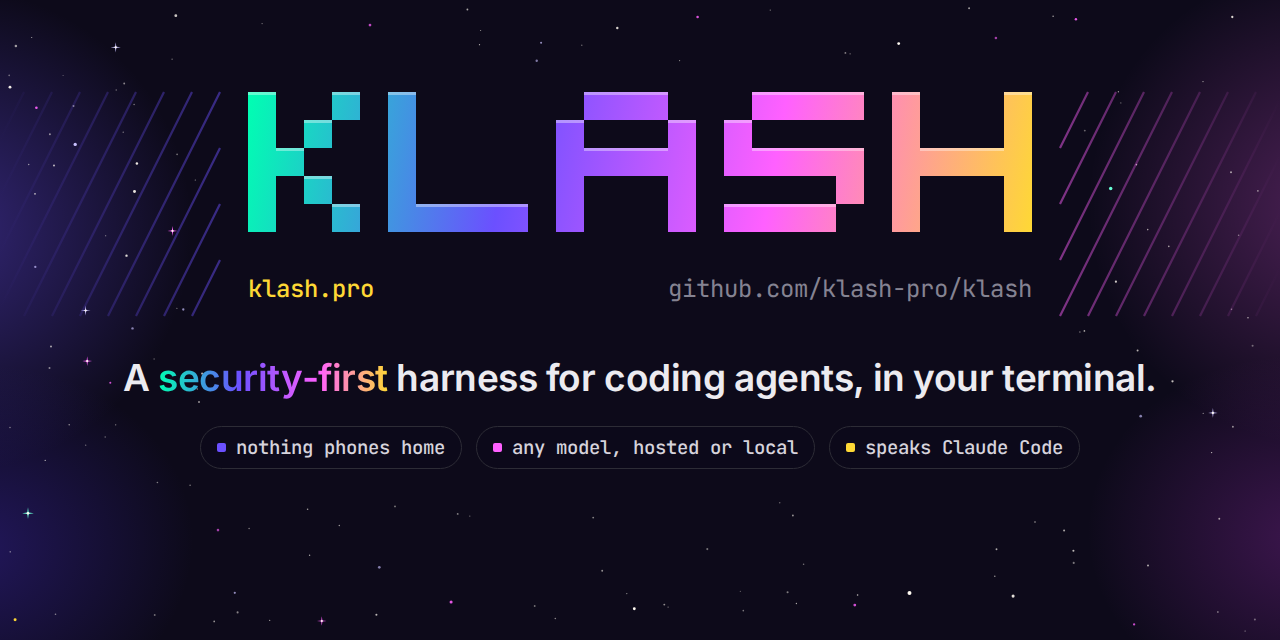
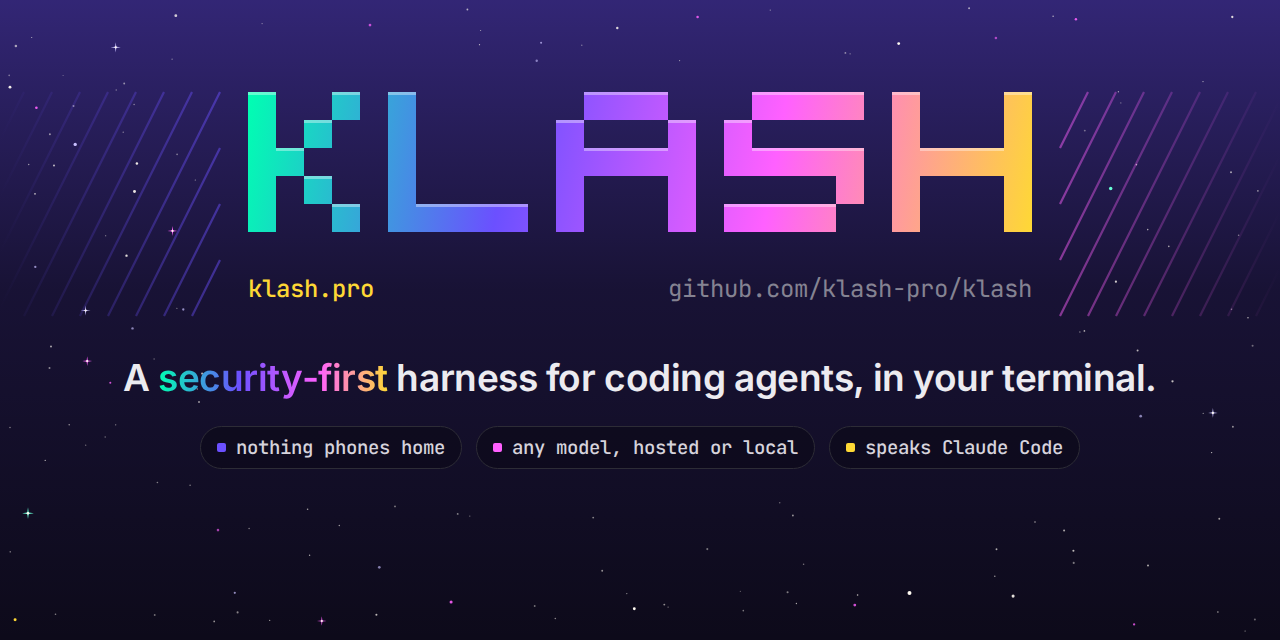
docs: the sky is one fade, a purple haze at the top
The clouds round the edges read worse than the flat sky they replaced.
Each picture's sky is now a single top-to-bottom fade instead: Crush's
purple at .40 at the top edge, .12 by the middle and nothing at the
bottom, over the same dark night, with the same crisp stars. The
clouds, their fitting and the two cloud tables are gone.

og.png and avatar.png are fresh screenshots of the new og.html and
avatar.svg.

diff --git a/docs/brand/og.html b/docs/brand/og.html
@@ -16,16 +16,11 @@ html,body{width:1280px;height:640px;overflow:hidden;background:#07060D}
 </style></head><body>
 <div class="bg"><svg xmlns="http://www.w3.org/2000/svg" viewBox="0 0 1280 640" width="1280" height="640" role="img" aria-label="Klash"><title>Klash</title>
 <defs>
-
-<radialGradient id="neb1"><stop offset="0" stop-color="#6B50FF" stop-opacity=".40"/><stop offset="1" stop-color="#6B50FF" stop-opacity="0"/></radialGradient>
-<radialGradient id="neb2"><stop offset="0" stop-color="#FF60FF" stop-opacity=".26"/><stop offset="1" stop-color="#FF60FF" stop-opacity="0"/></radialGradient>
-<radialGradient id="neb3"><stop offset="0" stop-color="#C337E0" stop-opacity=".26"/><stop offset="1" stop-color="#C337E0" stop-opacity="0"/></radialGradient>
-<radialGradient id="neb4"><stop offset="0" stop-color="#4A30D9" stop-opacity=".34"/><stop offset="1" stop-color="#4A30D9" stop-opacity="0"/></radialGradient>
-
+<linearGradient id="sky" x1="0" y1="0" x2="0" y2="1"><stop offset="0" stop-color="#6B50FF" stop-opacity=".40"/><stop offset=".45" stop-color="#6B50FF" stop-opacity=".12"/><stop offset="1" stop-color="#6B50FF" stop-opacity="0"/></linearGradient>
 <linearGradient id="word" gradientUnits="userSpaceOnUse" x1="248" y1="92" x2="1032" y2="232"><stop offset="0" stop-color="#00FFB2"/><stop offset="0.333" stop-color="#6B50FF"/><stop offset="0.667" stop-color="#FF60FF"/><stop offset="1" stop-color="#FED835"/></linearGradient>
 <linearGradient id="field" gradientUnits="userSpaceOnUse" x1="0" y1="0" x2="1280" y2="0"><stop offset="0" stop-color="#6B50FF" stop-opacity="0"/><stop offset=".2" stop-color="#6B50FF" stop-opacity=".55"/><stop offset=".8" stop-color="#FF60FF" stop-opacity=".55"/><stop offset="1" stop-color="#FF60FF" stop-opacity="0"/></linearGradient>
 </defs>
-<rect width="1280" height="640" fill="#0D0A1A"/><ellipse cx="-51" cy="230" rx="243" ry="243" fill="url(#neb1)" transform="rotate(10 -51 230)"/><ellipse cx="1331" cy="205" rx="243" ry="243" fill="url(#neb2)" transform="rotate(-10 1331 205)"/><ellipse cx="-26" cy="550" rx="220" ry="184" fill="url(#neb4)" transform="rotate(-8 -26 550)"/><ellipse cx="1306" cy="538" rx="219" ry="182" fill="url(#neb3)" transform="rotate(6 1306 538)"/><circle cx="1013.1" cy="596.1" r="1.55" fill="#FFFAF1" opacity="0.89"/><circle cx="73.5" cy="105.9" r="0.98" fill="#FFFAF1" opacity="0.50"/><circle cx="136.9" cy="163.6" r="1.24" fill="#FFFAF1" opacity="0.92"/><circle cx="10.2" cy="551.8" r="0.66" fill="#FFFAF1" opacity="0.74"/><circle cx="1110.7" cy="188.5" r="1.72" fill="#68FFD6" opacity="1.00"/><circle cx="237.6" cy="612.4" r="1.03" fill="#FFFAF1" opacity="0.50"/><circle cx="35.3" cy="266.9" r="1.16" fill="#C9C1FF" opacity="0.71"/><circle cx="770.3" cy="10.1" r="0.72" fill="#FFFAF1" opacity="0.47"/><circle cx="898.7" cy="43.6" r="1.41" fill="#FFFAF1" opacity="1.00"/><circle cx="1075.9" cy="19.3" r="1.22" fill="#FF60FF" opacity="0.89"/><circle cx="796.4" cy="603.5" r="0.67" fill="#FFFAF1" opacity="0.68"/><circle cx="1136.4" cy="164.6" r="0.84" fill="#FFFAF1" opacity="0.66"/><circle cx="555.3" cy="618.5" r="0.81" fill="#FFFAF1" opacity="0.50"/><circle cx="195.3" cy="180.0" r="0.60" fill="#FFFAF1" opacity="0.62"/><circle cx="395.0" cy="506.4" r="0.91" fill="#FFFAF1" opacity="0.47"/><circle cx="110.3" cy="382.8" r="1.02" fill="#FF60FF" opacity="0.81"/><circle cx="541.1" cy="42.8" r="1.02" fill="#C9C1FF" opacity="0.72"/><circle cx="269.7" cy="620.3" r="0.62" fill="#FFFAF1" opacity="0.71"/><circle cx="479.5" cy="44.7" r="0.62" fill="#FFFAF1" opacity="0.72"/><circle cx="668.1" cy="607.1" r="0.71" fill="#FFFAF1" opacity="0.46"/><circle cx="602.2" cy="570.8" r="0.96" fill="#FFFAF1" opacity="0.56"/><circle cx="234.8" cy="592.8" r="1.11" fill="#C9C1FF" opacity="0.70"/><circle cx="996.5" cy="549.2" r="0.94" fill="#FFFAF1" opacity="0.66"/><circle cx="1203.2" cy="413.4" r="0.56" fill="#FFFAF1" opacity="0.57"/><circle cx="593.2" cy="517.6" r="0.95" fill="#FFFAF1" opacity="0.49"/><circle cx="1073.4" cy="550.8" r="1.04" fill="#FFFAF1" opacity="0.73"/><circle cx="218.0" cy="530.1" r="1.29" fill="#FF60FF" opacity="0.63"/><circle cx="787.6" cy="592.2" r="1.02" fill="#FFFAF1" opacity="0.47"/><circle cx="707.3" cy="549.1" r="1.05" fill="#FFFAF1" opacity="0.43"/><circle cx="1254.9" cy="619.4" r="1.00" fill="#FFFAF1" opacity="0.39"/><circle cx="1231.5" cy="309.2" r="0.76" fill="#FFFAF1" opacity="0.49"/><circle cx="845.4" cy="52.9" r="0.91" fill="#FFFAF1" opacity="0.50"/><circle cx="451.1" cy="602.1" r="1.52" fill="#FF60FF" opacity="0.89"/><circle cx="480.6" cy="30.5" r="0.60" fill="#FFFAF1" opacity="0.57"/><circle cx="1219.3" cy="518.8" r="0.96" fill="#FFFAF1" opacity="0.61"/><circle cx="1217.9" cy="612.0" r="0.73" fill="#FFFAF1" opacity="0.71"/><circle cx="9.2" cy="75.3" r="0.86" fill="#FFFAF1" opacity="0.41"/><circle cx="803.6" cy="564.2" r="0.77" fill="#FFFAF1" opacity="0.44"/><circle cx="376.4" cy="614.8" r="1.03" fill="#FFFAF1" opacity="0.72"/><circle cx="1248.0" cy="317.7" r="0.71" fill="#FFFAF1" opacity="0.74"/><circle cx="1053.1" cy="16.2" r="0.69" fill="#FFFAF1" opacity="0.72"/><circle cx="1257.9" cy="190.9" r="0.79" fill="#FFFAF1" opacity="0.61"/><circle cx="157.4" cy="482.5" r="0.82" fill="#FFFAF1" opacity="0.48"/><circle cx="54.0" cy="165.5" r="1.01" fill="#FFFAF1" opacity="0.71"/><circle cx="697.6" cy="17.1" r="1.26" fill="#FF60FF" opacity="0.84"/><g transform="translate(1212.9 412.9)"><path d="M0 -4.8L0.58 -0.58L4.8 0L0.58 0.58L0 4.8L-0.58 0.58L-4.8 0L-0.58 -0.58z" fill="#C9C1FF"/><circle r="1.06" fill="#FFFAF1"/></g><circle cx="1084.8" cy="130.6" r="0.97" fill="#FFFAF1" opacity="0.38"/><circle cx="994.8" cy="576.3" r="0.79" fill="#FFFAF1" opacity="0.57"/><circle cx="202.1" cy="373.6" r="1.04" fill="#FFFAF1" opacity="0.69"/><g transform="translate(115.7 47.3)"><path d="M0 -5.1L0.61 -0.61L5.1 0L0.61 0.61L0 5.1L-0.61 0.61L-5.1 0L-0.61 -0.61z" fill="#C9C1FF"/><circle r="1.13" fill="#FFFAF1"/></g><circle cx="1245.1" cy="631.0" r="0.57" fill="#FFFAF1" opacity="0.69"/><circle cx="1211.6" cy="452.6" r="0.70" fill="#FFFAF1" opacity="0.72"/><circle cx="197.3" cy="389.0" r="0.63" fill="#FFFAF1" opacity="0.60"/><circle cx="63.1" cy="75.5" r="0.59" fill="#FFFAF1" opacity="0.37"/><circle cx="1118.4" cy="91.8" r="0.71" fill="#FFFAF1" opacity="0.59"/><circle cx="626.8" cy="593.6" r="0.58" fill="#FFFAF1" opacity="0.63"/><circle cx="199.0" cy="402.0" r="1.01" fill="#FFFAF1" opacity="0.57"/><circle cx="177.1" cy="154.3" r="0.92" fill="#FFFAF1" opacity="0.42"/><circle cx="115.7" cy="424.8" r="0.61" fill="#FFFAF1" opacity="0.59"/><circle cx="309.6" cy="555.2" r="0.71" fill="#FFFAF1" opacity="0.67"/><circle cx="45.2" cy="460.4" r="0.63" fill="#FFFAF1" opacity="0.73"/><circle cx="154.7" cy="615.0" r="0.96" fill="#FFFAF1" opacity="0.41"/><circle cx="1084.4" cy="330.9" r="0.84" fill="#FFFAF1" opacity="0.65"/><circle cx="49.9" cy="134.3" r="0.99" fill="#FFFAF1" opacity="0.54"/><circle cx="969.1" cy="8.3" r="0.99" fill="#FFFAF1" opacity="0.60"/><circle cx="134.1" cy="104.5" r="0.74" fill="#FFFAF1" opacity="0.50"/><circle cx="1120.8" cy="102.9" r="0.69" fill="#FFFAF1" opacity="0.41"/><circle cx="617.3" cy="28.0" r="1.22" fill="#FFFAF1" opacity="0.84"/><circle cx="1203.0" cy="81.6" r="0.70" fill="#FFFAF1" opacity="0.62"/><circle cx="262.1" cy="23.6" r="0.59" fill="#FFFAF1" opacity="0.51"/><circle cx="1238.6" cy="235.3" r="0.78" fill="#FFFAF1" opacity="0.46"/><circle cx="857.6" cy="594.9" r="0.77" fill="#FFFAF1" opacity="0.74"/><circle cx="15.9" cy="46.0" r="1.25" fill="#FFFAF1" opacity="0.61"/><circle cx="1064.1" cy="530.5" r="1.02" fill="#FFFAF1" opacity="0.64"/><circle cx="307.6" cy="509.2" r="0.79" fill="#FFFAF1" opacity="0.62"/><circle cx="995.9" cy="37.9" r="1.27" fill="#FF60FF" opacity="0.62"/><circle cx="55.5" cy="614.3" r="0.80" fill="#FFFAF1" opacity="0.51"/><circle cx="679.6" cy="60.6" r="0.60" fill="#FFFAF1" opacity="0.57"/><circle cx="1172.5" cy="381.3" r="1.13" fill="#FFFAF1" opacity="0.75"/><circle cx="175.8" cy="15.7" r="1.41" fill="#FFFAF1" opacity="0.79"/><circle cx="183.3" cy="309.5" r="1.16" fill="#C9C1FF" opacity="0.71"/><circle cx="172.1" cy="59.2" r="0.59" fill="#FFFAF1" opacity="0.52"/><circle cx="85.7" cy="445.2" r="0.65" fill="#FFFAF1" opacity="0.46"/><circle cx="1140.7" cy="416.2" r="1.34" fill="#C9C1FF" opacity="0.65"/><circle cx="31.7" cy="37.5" r="0.60" fill="#FFFAF1" opacity="0.67"/><circle cx="51.0" cy="346.5" r="1.02" fill="#FFFAF1" opacity="0.62"/><g transform="translate(172.5 230.9)"><path d="M0 -5.0L0.60 -0.60L5.0 0L0.60 0.60L0 5.0L-0.60 0.60L-5.0 0L-0.60 -0.60z" fill="#FF60FF"/><circle r="1.10" fill="#FFFAF1"/></g><circle cx="214.2" cy="621.4" r="0.85" fill="#FFFAF1" opacity="0.60"/><circle cx="190.1" cy="485.2" r="0.76" fill="#FFFAF1" opacity="0.48"/><circle cx="69.2" cy="424.8" r="0.79" fill="#FFFAF1" opacity="0.55"/><circle cx="10.0" cy="87.2" r="1.41" fill="#FFFAF1" opacity="0.94"/><circle cx="49.5" cy="368.0" r="0.99" fill="#FFFAF1" opacity="0.51"/><g transform="translate(321.8 621.0)"><path d="M0 -4.8L0.58 -0.58L4.8 0L0.58 0.58L0 4.8L-0.58 0.58L-4.8 0L-0.58 -0.58z" fill="#FF60FF"/><circle r="1.06" fill="#FFFAF1"/></g><circle cx="126.5" cy="255.7" r="1.17" fill="#FFFAF1" opacity="0.88"/><circle cx="123.2" cy="132.2" r="0.60" fill="#FFFAF1" opacity="0.59"/><circle cx="792.9" cy="515.5" r="0.89" fill="#FFFAF1" opacity="0.59"/><circle cx="740.3" cy="591.3" r="0.58" fill="#FFFAF1" opacity="0.41"/><circle cx="534.7" cy="606.0" r="0.93" fill="#FFFAF1" opacity="0.43"/><circle cx="370.0" cy="25.1" r="1.37" fill="#FF60FF" opacity="0.74"/><circle cx="1232.3" cy="17.0" r="1.14" fill="#FFFAF1" opacity="0.86"/><circle cx="854.8" cy="605.1" r="1.41" fill="#FF60FF" opacity="0.81"/><circle cx="124.2" cy="83.5" r="0.94" fill="#FFFAF1" opacity="0.52"/><circle cx="1232.9" cy="426.8" r="0.93" fill="#FFFAF1" opacity="0.56"/><circle cx="1073.7" cy="562.9" r="1.04" fill="#FFFAF1" opacity="0.45"/><circle cx="134.5" cy="191.4" r="1.48" fill="#FFFAF1" opacity="0.91"/><g transform="translate(87.2 361.1)"><path d="M0 -4.9L0.59 -0.59L4.9 0L0.59 0.59L0 4.9L-0.59 0.59L-4.9 0L-0.59 -0.59z" fill="#FF60FF"/><circle r="1.08" fill="#FFFAF1"/></g><circle cx="536.7" cy="60.7" r="1.20" fill="#C9C1FF" opacity="0.61"/><circle cx="154.1" cy="359.0" r="0.64" fill="#FFFAF1" opacity="0.43"/><g transform="translate(85.6 310.5)"><path d="M0 -5.0L0.60 -0.60L5.0 0L0.60 0.60L0 5.0L-0.60 0.60L-5.0 0L-0.60 -0.60z" fill="#C9C1FF"/><circle r="1.11" fill="#FFFAF1"/></g><circle cx="1148.0" cy="565.5" r="0.95" fill="#FFFAF1" opacity="0.69"/><circle cx="10.0" cy="427.5" r="0.72" fill="#FFFAF1" opacity="0.50"/><circle cx="1137.6" cy="350.6" r="0.98" fill="#FFFAF1" opacity="0.70"/><circle cx="469.8" cy="516.1" r="0.71" fill="#FFFAF1" opacity="0.42"/><circle cx="1134.1" cy="624.4" r="1.15" fill="#FF60FF" opacity="0.76"/><circle cx="15.1" cy="619.7" r="1.48" fill="#FED835" opacity="1.00"/><circle cx="634.3" cy="608.7" r="1.44" fill="#FFFAF1" opacity="1.00"/><g transform="translate(28.0 513.2)"><path d="M0 -5.9L0.71 -0.71L5.9 0L0.71 0.71L0 5.9L-0.71 0.71L-5.9 0L-0.71 -0.71z" fill="#68FFD6"/><circle r="1.30" fill="#FFFAF1"/></g><circle cx="1168.8" cy="246.4" r="0.80" fill="#FFFAF1" opacity="0.63"/><circle cx="1079.9" cy="332.0" r="0.76" fill="#FFFAF1" opacity="0.45"/><circle cx="850.1" cy="53.8" r="0.60" fill="#FFFAF1" opacity="0.54"/><circle cx="1252.6" cy="345.8" r="1.02" fill="#FFFAF1" opacity="0.39"/><circle cx="457.7" cy="513.9" r="0.93" fill="#FFFAF1" opacity="0.49"/><circle cx="28.7" cy="164.5" r="0.74" fill="#FFFAF1" opacity="0.56"/><circle cx="75.2" cy="144.4" r="1.67" fill="#C9C1FF" opacity="1.00"/><circle cx="664.3" cy="604.6" r="0.97" fill="#FFFAF1" opacity="0.54"/><circle cx="36.4" cy="107.8" r="1.30" fill="#FF60FF" opacity="0.93"/><circle cx="1035.0" cy="522.0" r="1.00" fill="#FFFAF1" opacity="0.36"/><circle cx="249.1" cy="528.5" r="0.73" fill="#FFFAF1" opacity="0.51"/><circle cx="467.4" cy="9.5" r="0.93" fill="#FFFAF1" opacity="0.65"/><circle cx="105.2" cy="437.0" r="0.75" fill="#FFFAF1" opacity="0.41"/><circle cx="105.7" cy="235.7" r="0.56" fill="#FFFAF1" opacity="0.67"/><circle cx="116.2" cy="90.0" r="0.72" fill="#FFFAF1" opacity="0.44"/><circle cx="379.3" cy="567.3" r="1.33" fill="#C9C1FF" opacity="0.64"/><circle cx="743.3" cy="610.7" r="0.83" fill="#FFFAF1" opacity="0.46"/><circle cx="176.9" cy="308.2" r="0.55" fill="#FFFAF1" opacity="0.66"/><circle cx="779.7" cy="502.8" r="0.80" fill="#FFFAF1" opacity="0.37"/><circle cx="35.0" cy="193.8" r="0.88" fill="#FFFAF1" opacity="0.72"/><circle cx="909.5" cy="592.9" r="1.99" fill="#FFFAF1" opacity="1.00"/><circle cx="1078.3" cy="376.7" r="0.87" fill="#FFFAF1" opacity="0.37"/><circle cx="132.5" cy="328.4" r="1.22" fill="#C9C1FF" opacity="0.65"/><circle cx="581.8" cy="45.3" r="0.72" fill="#FFFAF1" opacity="0.41"/><circle cx="1231.0" cy="172.3" r="0.94" fill="#FFFAF1" opacity="0.65"/><circle cx="339.3" cy="525.4" r="0.74" fill="#FFFAF1" opacity="0.60"/><circle cx="1115.9" cy="281.7" r="1.11" fill="#FFFAF1" opacity="0.80"/><circle cx="1147.7" cy="229.6" r="0.78" fill="#FFFAF1" opacity="0.63"/>
+<rect width="1280" height="640" fill="#0D0A1A"/><rect width="1280" height="640" fill="url(#sky)"/><circle cx="1013.1" cy="596.1" r="1.55" fill="#FFFAF1" opacity="0.89"/><circle cx="73.5" cy="105.9" r="0.98" fill="#FFFAF1" opacity="0.50"/><circle cx="136.9" cy="163.6" r="1.24" fill="#FFFAF1" opacity="0.92"/><circle cx="10.2" cy="551.8" r="0.66" fill="#FFFAF1" opacity="0.74"/><circle cx="1110.7" cy="188.5" r="1.72" fill="#68FFD6" opacity="1.00"/><circle cx="237.6" cy="612.4" r="1.03" fill="#FFFAF1" opacity="0.50"/><circle cx="35.3" cy="266.9" r="1.16" fill="#C9C1FF" opacity="0.71"/><circle cx="770.3" cy="10.1" r="0.72" fill="#FFFAF1" opacity="0.47"/><circle cx="898.7" cy="43.6" r="1.41" fill="#FFFAF1" opacity="1.00"/><circle cx="1075.9" cy="19.3" r="1.22" fill="#FF60FF" opacity="0.89"/><circle cx="796.4" cy="603.5" r="0.67" fill="#FFFAF1" opacity="0.68"/><circle cx="1136.4" cy="164.6" r="0.84" fill="#FFFAF1" opacity="0.66"/><circle cx="555.3" cy="618.5" r="0.81" fill="#FFFAF1" opacity="0.50"/><circle cx="195.3" cy="180.0" r="0.60" fill="#FFFAF1" opacity="0.62"/><circle cx="395.0" cy="506.4" r="0.91" fill="#FFFAF1" opacity="0.47"/><circle cx="110.3" cy="382.8" r="1.02" fill="#FF60FF" opacity="0.81"/><circle cx="541.1" cy="42.8" r="1.02" fill="#C9C1FF" opacity="0.72"/><circle cx="269.7" cy="620.3" r="0.62" fill="#FFFAF1" opacity="0.71"/><circle cx="479.5" cy="44.7" r="0.62" fill="#FFFAF1" opacity="0.72"/><circle cx="668.1" cy="607.1" r="0.71" fill="#FFFAF1" opacity="0.46"/><circle cx="602.2" cy="570.8" r="0.96" fill="#FFFAF1" opacity="0.56"/><circle cx="234.8" cy="592.8" r="1.11" fill="#C9C1FF" opacity="0.70"/><circle cx="996.5" cy="549.2" r="0.94" fill="#FFFAF1" opacity="0.66"/><circle cx="1203.2" cy="413.4" r="0.56" fill="#FFFAF1" opacity="0.57"/><circle cx="593.2" cy="517.6" r="0.95" fill="#FFFAF1" opacity="0.49"/><circle cx="1073.4" cy="550.8" r="1.04" fill="#FFFAF1" opacity="0.73"/><circle cx="218.0" cy="530.1" r="1.29" fill="#FF60FF" opacity="0.63"/><circle cx="787.6" cy="592.2" r="1.02" fill="#FFFAF1" opacity="0.47"/><circle cx="707.3" cy="549.1" r="1.05" fill="#FFFAF1" opacity="0.43"/><circle cx="1254.9" cy="619.4" r="1.00" fill="#FFFAF1" opacity="0.39"/><circle cx="1231.5" cy="309.2" r="0.76" fill="#FFFAF1" opacity="0.49"/><circle cx="845.4" cy="52.9" r="0.91" fill="#FFFAF1" opacity="0.50"/><circle cx="451.1" cy="602.1" r="1.52" fill="#FF60FF" opacity="0.89"/><circle cx="480.6" cy="30.5" r="0.60" fill="#FFFAF1" opacity="0.57"/><circle cx="1219.3" cy="518.8" r="0.96" fill="#FFFAF1" opacity="0.61"/><circle cx="1217.9" cy="612.0" r="0.73" fill="#FFFAF1" opacity="0.71"/><circle cx="9.2" cy="75.3" r="0.86" fill="#FFFAF1" opacity="0.41"/><circle cx="803.6" cy="564.2" r="0.77" fill="#FFFAF1" opacity="0.44"/><circle cx="376.4" cy="614.8" r="1.03" fill="#FFFAF1" opacity="0.72"/><circle cx="1248.0" cy="317.7" r="0.71" fill="#FFFAF1" opacity="0.74"/><circle cx="1053.1" cy="16.2" r="0.69" fill="#FFFAF1" opacity="0.72"/><circle cx="1257.9" cy="190.9" r="0.79" fill="#FFFAF1" opacity="0.61"/><circle cx="157.4" cy="482.5" r="0.82" fill="#FFFAF1" opacity="0.48"/><circle cx="54.0" cy="165.5" r="1.01" fill="#FFFAF1" opacity="0.71"/><circle cx="697.6" cy="17.1" r="1.26" fill="#FF60FF" opacity="0.84"/><g transform="translate(1212.9 412.9)"><path d="M0 -4.8L0.58 -0.58L4.8 0L0.58 0.58L0 4.8L-0.58 0.58L-4.8 0L-0.58 -0.58z" fill="#C9C1FF"/><circle r="1.06" fill="#FFFAF1"/></g><circle cx="1084.8" cy="130.6" r="0.97" fill="#FFFAF1" opacity="0.38"/><circle cx="994.8" cy="576.3" r="0.79" fill="#FFFAF1" opacity="0.57"/><circle cx="202.1" cy="373.6" r="1.04" fill="#FFFAF1" opacity="0.69"/><g transform="translate(115.7 47.3)"><path d="M0 -5.1L0.61 -0.61L5.1 0L0.61 0.61L0 5.1L-0.61 0.61L-5.1 0L-0.61 -0.61z" fill="#C9C1FF"/><circle r="1.13" fill="#FFFAF1"/></g><circle cx="1245.1" cy="631.0" r="0.57" fill="#FFFAF1" opacity="0.69"/><circle cx="1211.6" cy="452.6" r="0.70" fill="#FFFAF1" opacity="0.72"/><circle cx="197.3" cy="389.0" r="0.63" fill="#FFFAF1" opacity="0.60"/><circle cx="63.1" cy="75.5" r="0.59" fill="#FFFAF1" opacity="0.37"/><circle cx="1118.4" cy="91.8" r="0.71" fill="#FFFAF1" opacity="0.59"/><circle cx="626.8" cy="593.6" r="0.58" fill="#FFFAF1" opacity="0.63"/><circle cx="199.0" cy="402.0" r="1.01" fill="#FFFAF1" opacity="0.57"/><circle cx="177.1" cy="154.3" r="0.92" fill="#FFFAF1" opacity="0.42"/><circle cx="115.7" cy="424.8" r="0.61" fill="#FFFAF1" opacity="0.59"/><circle cx="309.6" cy="555.2" r="0.71" fill="#FFFAF1" opacity="0.67"/><circle cx="45.2" cy="460.4" r="0.63" fill="#FFFAF1" opacity="0.73"/><circle cx="154.7" cy="615.0" r="0.96" fill="#FFFAF1" opacity="0.41"/><circle cx="1084.4" cy="330.9" r="0.84" fill="#FFFAF1" opacity="0.65"/><circle cx="49.9" cy="134.3" r="0.99" fill="#FFFAF1" opacity="0.54"/><circle cx="969.1" cy="8.3" r="0.99" fill="#FFFAF1" opacity="0.60"/><circle cx="134.1" cy="104.5" r="0.74" fill="#FFFAF1" opacity="0.50"/><circle cx="1120.8" cy="102.9" r="0.69" fill="#FFFAF1" opacity="0.41"/><circle cx="617.3" cy="28.0" r="1.22" fill="#FFFAF1" opacity="0.84"/><circle cx="1203.0" cy="81.6" r="0.70" fill="#FFFAF1" opacity="0.62"/><circle cx="262.1" cy="23.6" r="0.59" fill="#FFFAF1" opacity="0.51"/><circle cx="1238.6" cy="235.3" r="0.78" fill="#FFFAF1" opacity="0.46"/><circle cx="857.6" cy="594.9" r="0.77" fill="#FFFAF1" opacity="0.74"/><circle cx="15.9" cy="46.0" r="1.25" fill="#FFFAF1" opacity="0.61"/><circle cx="1064.1" cy="530.5" r="1.02" fill="#FFFAF1" opacity="0.64"/><circle cx="307.6" cy="509.2" r="0.79" fill="#FFFAF1" opacity="0.62"/><circle cx="995.9" cy="37.9" r="1.27" fill="#FF60FF" opacity="0.62"/><circle cx="55.5" cy="614.3" r="0.80" fill="#FFFAF1" opacity="0.51"/><circle cx="679.6" cy="60.6" r="0.60" fill="#FFFAF1" opacity="0.57"/><circle cx="1172.5" cy="381.3" r="1.13" fill="#FFFAF1" opacity="0.75"/><circle cx="175.8" cy="15.7" r="1.41" fill="#FFFAF1" opacity="0.79"/><circle cx="183.3" cy="309.5" r="1.16" fill="#C9C1FF" opacity="0.71"/><circle cx="172.1" cy="59.2" r="0.59" fill="#FFFAF1" opacity="0.52"/><circle cx="85.7" cy="445.2" r="0.65" fill="#FFFAF1" opacity="0.46"/><circle cx="1140.7" cy="416.2" r="1.34" fill="#C9C1FF" opacity="0.65"/><circle cx="31.7" cy="37.5" r="0.60" fill="#FFFAF1" opacity="0.67"/><circle cx="51.0" cy="346.5" r="1.02" fill="#FFFAF1" opacity="0.62"/><g transform="translate(172.5 230.9)"><path d="M0 -5.0L0.60 -0.60L5.0 0L0.60 0.60L0 5.0L-0.60 0.60L-5.0 0L-0.60 -0.60z" fill="#FF60FF"/><circle r="1.10" fill="#FFFAF1"/></g><circle cx="214.2" cy="621.4" r="0.85" fill="#FFFAF1" opacity="0.60"/><circle cx="190.1" cy="485.2" r="0.76" fill="#FFFAF1" opacity="0.48"/><circle cx="69.2" cy="424.8" r="0.79" fill="#FFFAF1" opacity="0.55"/><circle cx="10.0" cy="87.2" r="1.41" fill="#FFFAF1" opacity="0.94"/><circle cx="49.5" cy="368.0" r="0.99" fill="#FFFAF1" opacity="0.51"/><g transform="translate(321.8 621.0)"><path d="M0 -4.8L0.58 -0.58L4.8 0L0.58 0.58L0 4.8L-0.58 0.58L-4.8 0L-0.58 -0.58z" fill="#FF60FF"/><circle r="1.06" fill="#FFFAF1"/></g><circle cx="126.5" cy="255.7" r="1.17" fill="#FFFAF1" opacity="0.88"/><circle cx="123.2" cy="132.2" r="0.60" fill="#FFFAF1" opacity="0.59"/><circle cx="792.9" cy="515.5" r="0.89" fill="#FFFAF1" opacity="0.59"/><circle cx="740.3" cy="591.3" r="0.58" fill="#FFFAF1" opacity="0.41"/><circle cx="534.7" cy="606.0" r="0.93" fill="#FFFAF1" opacity="0.43"/><circle cx="370.0" cy="25.1" r="1.37" fill="#FF60FF" opacity="0.74"/><circle cx="1232.3" cy="17.0" r="1.14" fill="#FFFAF1" opacity="0.86"/><circle cx="854.8" cy="605.1" r="1.41" fill="#FF60FF" opacity="0.81"/><circle cx="124.2" cy="83.5" r="0.94" fill="#FFFAF1" opacity="0.52"/><circle cx="1232.9" cy="426.8" r="0.93" fill="#FFFAF1" opacity="0.56"/><circle cx="1073.7" cy="562.9" r="1.04" fill="#FFFAF1" opacity="0.45"/><circle cx="134.5" cy="191.4" r="1.48" fill="#FFFAF1" opacity="0.91"/><g transform="translate(87.2 361.1)"><path d="M0 -4.9L0.59 -0.59L4.9 0L0.59 0.59L0 4.9L-0.59 0.59L-4.9 0L-0.59 -0.59z" fill="#FF60FF"/><circle r="1.08" fill="#FFFAF1"/></g><circle cx="536.7" cy="60.7" r="1.20" fill="#C9C1FF" opacity="0.61"/><circle cx="154.1" cy="359.0" r="0.64" fill="#FFFAF1" opacity="0.43"/><g transform="translate(85.6 310.5)"><path d="M0 -5.0L0.60 -0.60L5.0 0L0.60 0.60L0 5.0L-0.60 0.60L-5.0 0L-0.60 -0.60z" fill="#C9C1FF"/><circle r="1.11" fill="#FFFAF1"/></g><circle cx="1148.0" cy="565.5" r="0.95" fill="#FFFAF1" opacity="0.69"/><circle cx="10.0" cy="427.5" r="0.72" fill="#FFFAF1" opacity="0.50"/><circle cx="1137.6" cy="350.6" r="0.98" fill="#FFFAF1" opacity="0.70"/><circle cx="469.8" cy="516.1" r="0.71" fill="#FFFAF1" opacity="0.42"/><circle cx="1134.1" cy="624.4" r="1.15" fill="#FF60FF" opacity="0.76"/><circle cx="15.1" cy="619.7" r="1.48" fill="#FED835" opacity="1.00"/><circle cx="634.3" cy="608.7" r="1.44" fill="#FFFAF1" opacity="1.00"/><g transform="translate(28.0 513.2)"><path d="M0 -5.9L0.71 -0.71L5.9 0L0.71 0.71L0 5.9L-0.71 0.71L-5.9 0L-0.71 -0.71z" fill="#68FFD6"/><circle r="1.30" fill="#FFFAF1"/></g><circle cx="1168.8" cy="246.4" r="0.80" fill="#FFFAF1" opacity="0.63"/><circle cx="1079.9" cy="332.0" r="0.76" fill="#FFFAF1" opacity="0.45"/><circle cx="850.1" cy="53.8" r="0.60" fill="#FFFAF1" opacity="0.54"/><circle cx="1252.6" cy="345.8" r="1.02" fill="#FFFAF1" opacity="0.39"/><circle cx="457.7" cy="513.9" r="0.93" fill="#FFFAF1" opacity="0.49"/><circle cx="28.7" cy="164.5" r="0.74" fill="#FFFAF1" opacity="0.56"/><circle cx="75.2" cy="144.4" r="1.67" fill="#C9C1FF" opacity="1.00"/><circle cx="664.3" cy="604.6" r="0.97" fill="#FFFAF1" opacity="0.54"/><circle cx="36.4" cy="107.8" r="1.30" fill="#FF60FF" opacity="0.93"/><circle cx="1035.0" cy="522.0" r="1.00" fill="#FFFAF1" opacity="0.36"/><circle cx="249.1" cy="528.5" r="0.73" fill="#FFFAF1" opacity="0.51"/><circle cx="467.4" cy="9.5" r="0.93" fill="#FFFAF1" opacity="0.65"/><circle cx="105.2" cy="437.0" r="0.75" fill="#FFFAF1" opacity="0.41"/><circle cx="105.7" cy="235.7" r="0.56" fill="#FFFAF1" opacity="0.67"/><circle cx="116.2" cy="90.0" r="0.72" fill="#FFFAF1" opacity="0.44"/><circle cx="379.3" cy="567.3" r="1.33" fill="#C9C1FF" opacity="0.64"/><circle cx="743.3" cy="610.7" r="0.83" fill="#FFFAF1" opacity="0.46"/><circle cx="176.9" cy="308.2" r="0.55" fill="#FFFAF1" opacity="0.66"/><circle cx="779.7" cy="502.8" r="0.80" fill="#FFFAF1" opacity="0.37"/><circle cx="35.0" cy="193.8" r="0.88" fill="#FFFAF1" opacity="0.72"/><circle cx="909.5" cy="592.9" r="1.99" fill="#FFFAF1" opacity="1.00"/><circle cx="1078.3" cy="376.7" r="0.87" fill="#FFFAF1" opacity="0.37"/><circle cx="132.5" cy="328.4" r="1.22" fill="#C9C1FF" opacity="0.65"/><circle cx="581.8" cy="45.3" r="0.72" fill="#FFFAF1" opacity="0.41"/><circle cx="1231.0" cy="172.3" r="0.94" fill="#FFFAF1" opacity="0.65"/><circle cx="339.3" cy="525.4" r="0.74" fill="#FFFAF1" opacity="0.60"/><circle cx="1115.9" cy="281.7" r="1.11" fill="#FFFAF1" opacity="0.80"/><circle cx="1147.7" cy="229.6" r="0.78" fill="#FFFAF1" opacity="0.63"/>
 <path d="M-4 148L24 92M24 148L52 92M52 148L80 92M80 148L108 92M108 148L136 92M136 148L164 92M164 148L192 92M192 148L220 92M-4 204L24 148M24 204L52 148M52 204L80 148M80 204L108 148M108 204L136 148M136 204L164 148M164 204L192 148M192 204L220 148M-4 260L24 204M24 260L52 204M52 260L80 204M80 260L108 204M108 260L136 204M136 260L164 204M164 260L192 204M192 260L220 204M-4 316L24 260M24 316L52 260M52 316L80 260M80 316L108 260M108 316L136 260M136 316L164 260M164 316L192 260M192 316L220 260M1060 148L1088 92M1088 148L1116 92M1116 148L1144 92M1144 148L1172 92M1172 148L1200 92M1200 148L1228 92M1228 148L1256 92M1256 148L1284 92M1060 204L1088 148M1088 204L1116 148M1116 204L1144 148M1144 204L1172 148M1172 204L1200 148M1200 204L1228 148M1228 204L1256 148M1256 204L1284 148M1060 260L1088 204M1088 260L1116 204M1116 260L1144 204M1144 260L1172 204M1172 260L1200 204M1200 260L1228 204M1228 260L1256 204M1256 260L1284 204M1060 316L1088 260M1088 316L1116 260M1116 316L1144 260M1144 316L1172 260M1172 316L1200 260M1200 316L1228 260M1228 316L1256 260M1256 316L1284 260" stroke="url(#field)" stroke-width="2.2" fill="none"/>
 <text x="248" y="297" font-family="JetBrains Mono,SFMono-Regular,Menlo,Consolas,'Liberation Mono','DejaVu Sans Mono',monospace" font-weight="500" font-size="24" fill="#FED835">klash.pro</text>
 <text x="1032" y="297" text-anchor="end" font-family="JetBrains Mono,SFMono-Regular,Menlo,Consolas,'Liberation Mono','DejaVu Sans Mono',monospace" font-size="24" fill="#858392">github.com/klash-pro/klash</text>

diff --git a/scripts/brand.py b/scripts/brand.py
@@ -30,8 +30,8 @@ from string import Template
 OUT = os.path.join(os.path.dirname(os.path.abspath(__file__)), "..", "docs", "brand")
 
 # ── Palette ──────────────────────────────────────────────────────────────
-# Deep space and a nebula in Crush's purple and hot pink (Charmtone's
-# Charple and Dolly), kept clear of the word; gold and mint only as starlight.
+# Deep space under a purple haze, Crush's purple and hot pink (Charmtone's
+# Charple and Dolly) in the word, and gold and mint only as starlight.
 VOID = "#07060D"
 NIGHT = "#0D0A1A"
 RIM = "#2D2C36"
@@ -41,8 +41,6 @@ STAR = "#FFFAF1"
 LAVENDER = "#C9C1FF"
 PURPLE = "#6B50FF"
 PINK = "#FF60FF"
-MAGENTA = "#C337E0"
-DEEP = "#4A30D9"
 GOLD = "#FED835"
 AMBER = "#FEA408"
 MINT = "#68FFD6"
@@ -142,50 +140,14 @@ def svg_open(w, h, label, extra=""):
 
 
 def sky_defs():
-    """Gradients for the nebula's clouds."""
-    return f"""
-<radialGradient id="neb1"><stop offset="0" stop-color="{PURPLE}" stop-opacity=".40"/><stop offset="1" stop-color="{PURPLE}" stop-opacity="0"/></radialGradient>
-<radialGradient id="neb2"><stop offset="0" stop-color="{PINK}" stop-opacity=".26"/><stop offset="1" stop-color="{PINK}" stop-opacity="0"/></radialGradient>
-<radialGradient id="neb3"><stop offset="0" stop-color="{MAGENTA}" stop-opacity=".26"/><stop offset="1" stop-color="{MAGENTA}" stop-opacity="0"/></radialGradient>
-<radialGradient id="neb4"><stop offset="0" stop-color="{DEEP}" stop-opacity=".34"/><stop offset="1" stop-color="{DEEP}" stop-opacity="0"/></radialGradient>
-"""
-
-
-# The nebula's clouds, round the edges of a picture: gradient, centre and
-# radii as fractions of the picture's size, and a tilt in degrees.
-CLOUDS = (
-    ("neb1", .03, .40, .26, .55, 10),
-    ("neb4", .16, .92, .26, .30, -8),
-    ("neb2", .97, .30, .24, .50, -10),
-    ("neb1", .86, .95, .26, .30, 6),
-    ("neb3", .66, -.04, .30, .26, 4),
-    ("neb1", .20, -.06, .22, .22, 0),
-)
-# For pictures whose words reach close to the top and bottom (the social
-# card, the avatar): clouds down the two sides only.
-SIDE_CLOUDS = (
-    ("neb1", -.04, .36, .24, .48, 10),
-    ("neb2", 1.04, .32, .24, .48, -10),
-    ("neb4", -.02, .86, .18, .30, -8),
-    ("neb3", 1.02, .84, .18, .30, 6),
-)
-
-
-def room(cx, cy, rx, ry, tilt, box, steps=400):
-    """How much of its size a tilted ellipse can keep, at most all of it,
-    before it reaches box. A cloud's haze fades to nothing at its edge, so a
-    cloud scaled by this leaves box clear."""
-    x0, y0, x1, y1 = box
-    if x0 <= cx <= x1 and y0 <= cy <= y1:
-        return 0
-    c, s = math.cos(math.radians(tilt)), math.sin(math.radians(tilt))
-    near = 1
-    for i in range(steps + 1):
-        x, y = x0 + (x1 - x0) * i / steps, y0 + (y1 - y0) * i / steps
-        for px, py in ((x, y0), (x, y1), (x0, y), (x1, y)):
-            dx, dy = px - cx, py - cy
-            near = min(near, math.hypot((dx * c + dy * s) / rx, (dy * c - dx * s) / ry))
-    return near
+    """The sky's fade: a purple haze at the top that thins out toward the
+    bottom."""
+    return (
+        '<linearGradient id="sky" x1="0" y1="0" x2="0" y2="1">'
+        f'<stop offset="0" stop-color="{PURPLE}" stop-opacity=".40"/>'
+        f'<stop offset=".45" stop-color="{PURPLE}" stop-opacity=".12"/>'
+        f'<stop offset="1" stop-color="{PURPLE}" stop-opacity="0"/></linearGradient>'
+    )
 
 
 def make_stars(rng, n, w, ymax, keepout):
@@ -220,19 +182,11 @@ def sparkle(x, y, s, col, attrs=""):
     )
 
 
-def sky(rng, w, h, keepout, n_stars, twinkle, clouds=CLOUDS):
-    """Deep space, edge to edge: a nebula's clouds round the edges and crisp
-    stars. Each cloud shrinks until its haze fades out short of the word, so
-    nothing soft lies behind it, and there is no planet or horizon under it;
-    the word floats in space."""
-    o = [f'<rect width="{w}" height="{h}" fill="{NIGHT}"/>']
-    kx0, ky0, kx1, ky1 = keepout
-    clear = (kx0 - 16, ky0 - 16, kx1 + 16, ky1 + 16)
-    for gid, fx, fy, frx, fry, tilt in clouds:
-        cx, cy, rx, ry = w * fx, h * fy, w * frx, h * fry
-        k = room(cx, cy, rx, ry, tilt, clear)
-        if k > .05:
-            o.append(f'<ellipse cx="{cx:.0f}" cy="{cy:.0f}" rx="{rx * k:.0f}" ry="{ry * k:.0f}" fill="url(#{gid})" transform="rotate({tilt} {cx:.0f} {cy:.0f})"/>')
+def sky(rng, w, h, keepout, n_stars, twinkle):
+    """Deep space, edge to edge: a purple haze at the top that fades out
+    toward the bottom, and crisp stars. No clouds, planet or horizon; the
+    word floats in space."""
+    o = [f'<rect width="{w}" height="{h}" fill="{NIGHT}"/>', f'<rect width="{w}" height="{h}" fill="url(#sky)"/>']
     for x, y, rad, col, op in make_stars(rng, n_stars, w, h - 8, keepout):
         if rad > 1.5 and rng.random() < 0.6:
             attrs = f' class="tw" style="animation-delay:-{rng.uniform(0, 4):.2f}s"' if twinkle else ""
@@ -303,7 +257,7 @@ def anim():
 # ── Images ───────────────────────────────────────────────────────────────
 
 def banner(W=1280, H=520, p=24):
-    """The README's banner: the wordmark floating in a nebula."""
+    """The README's banner: the wordmark floating in space."""
     rng = random.Random(7)
     cw, ch = p, 2 * p
     rows = word_rows()
@@ -386,7 +340,7 @@ def signoff(W=1280, H=260, p=10):
 
 
 def avatar(S=512, p=60):
-    """The organisation's picture: the wordmark's K in the nebula."""
+    """The organisation's picture: the wordmark's K in space."""
     rng = random.Random(3)
     rows = letter_rows("K")
     on = pixels(rows)
@@ -400,7 +354,7 @@ def avatar(S=512, p=60):
     o.append(sky_defs())
     o.append(word_defs(x0, y0, word_w, word_h))
     o.append("</defs>")
-    o.append(sky(rng, S, S, keep, 75, twinkle=False, clouds=SIDE_CLOUDS))
+    o.append(sky(rng, S, S, keep, 75, twinkle=False))
     o.append(word_layers(on, x0, y0, p))
     o.append(sparkle(x0 + word_w + 34, y0 + 18, 15, GOLD))
     o.append("</svg>")
@@ -468,7 +422,7 @@ def og_svg(W=1280, H=640, p=28):
     o.append(word_defs(x0, y0, word_w, word_h))
     o.append(field_gradient("field", 0, W))
     o.append("</defs>")
-    o.append(sky(rng, W, H, keep, 145, twinkle=False, clouds=SIDE_CLOUDS))
+    o.append(sky(rng, W, H, keep, 145, twinkle=False))
     o.append(f'<path d="{left}{right}" stroke="url(#field)" stroke-width="2.2" fill="none"/>')
     ty = meta_y + ch * 0.66
     o.append(f'<text x="{x0}" y="{fmt(ty)}" font-family="JetBrains Mono,{MONO}" font-weight="500" font-size="24" fill="{GOLD}">klash.pro</text>')
